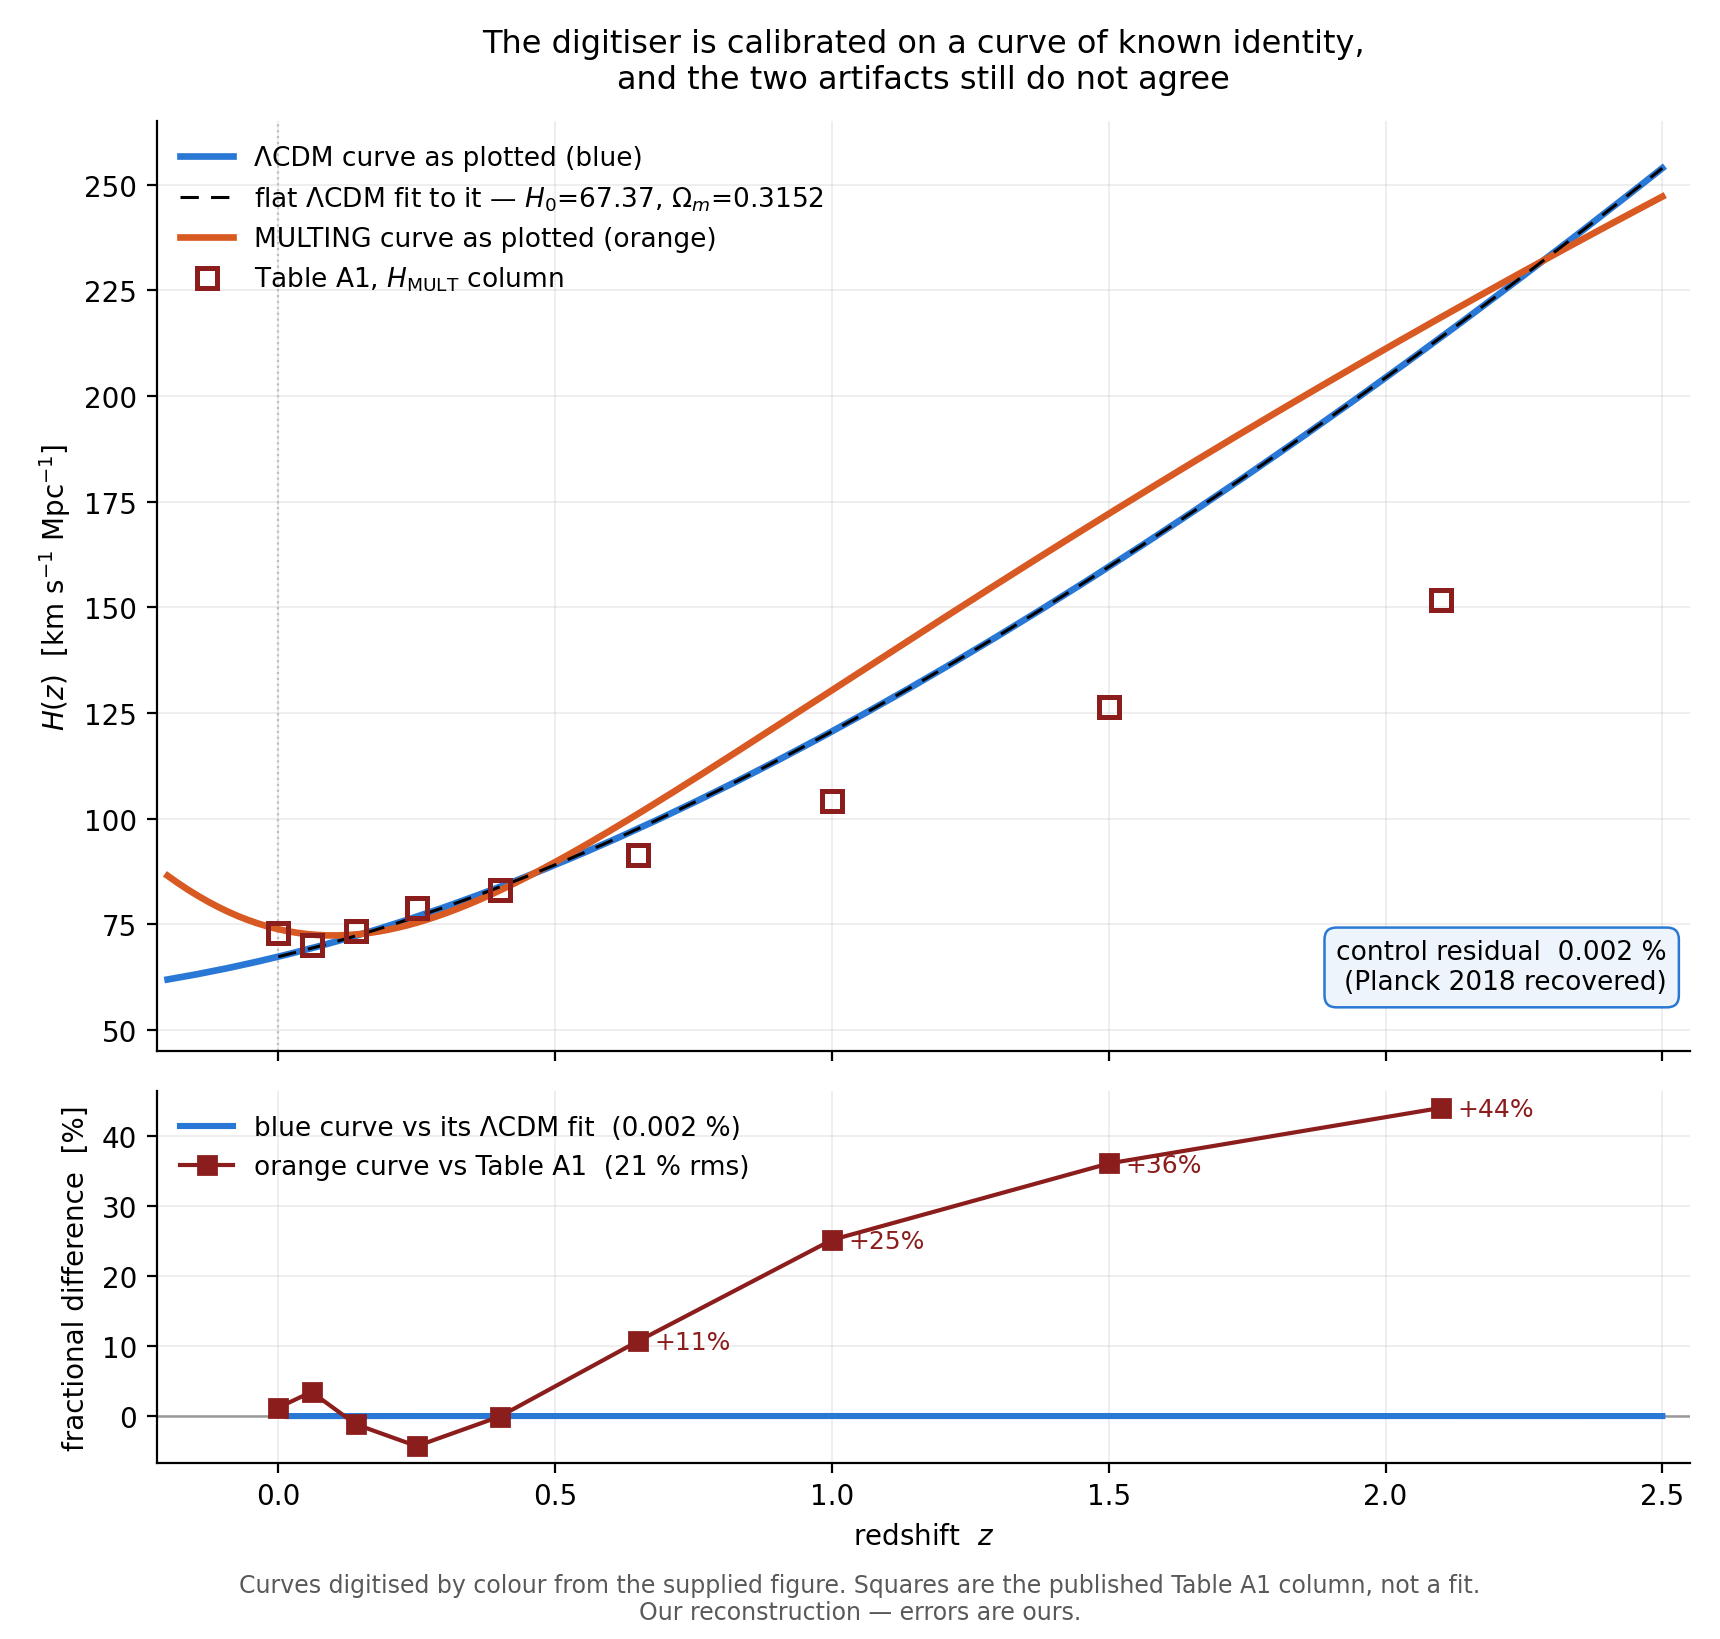
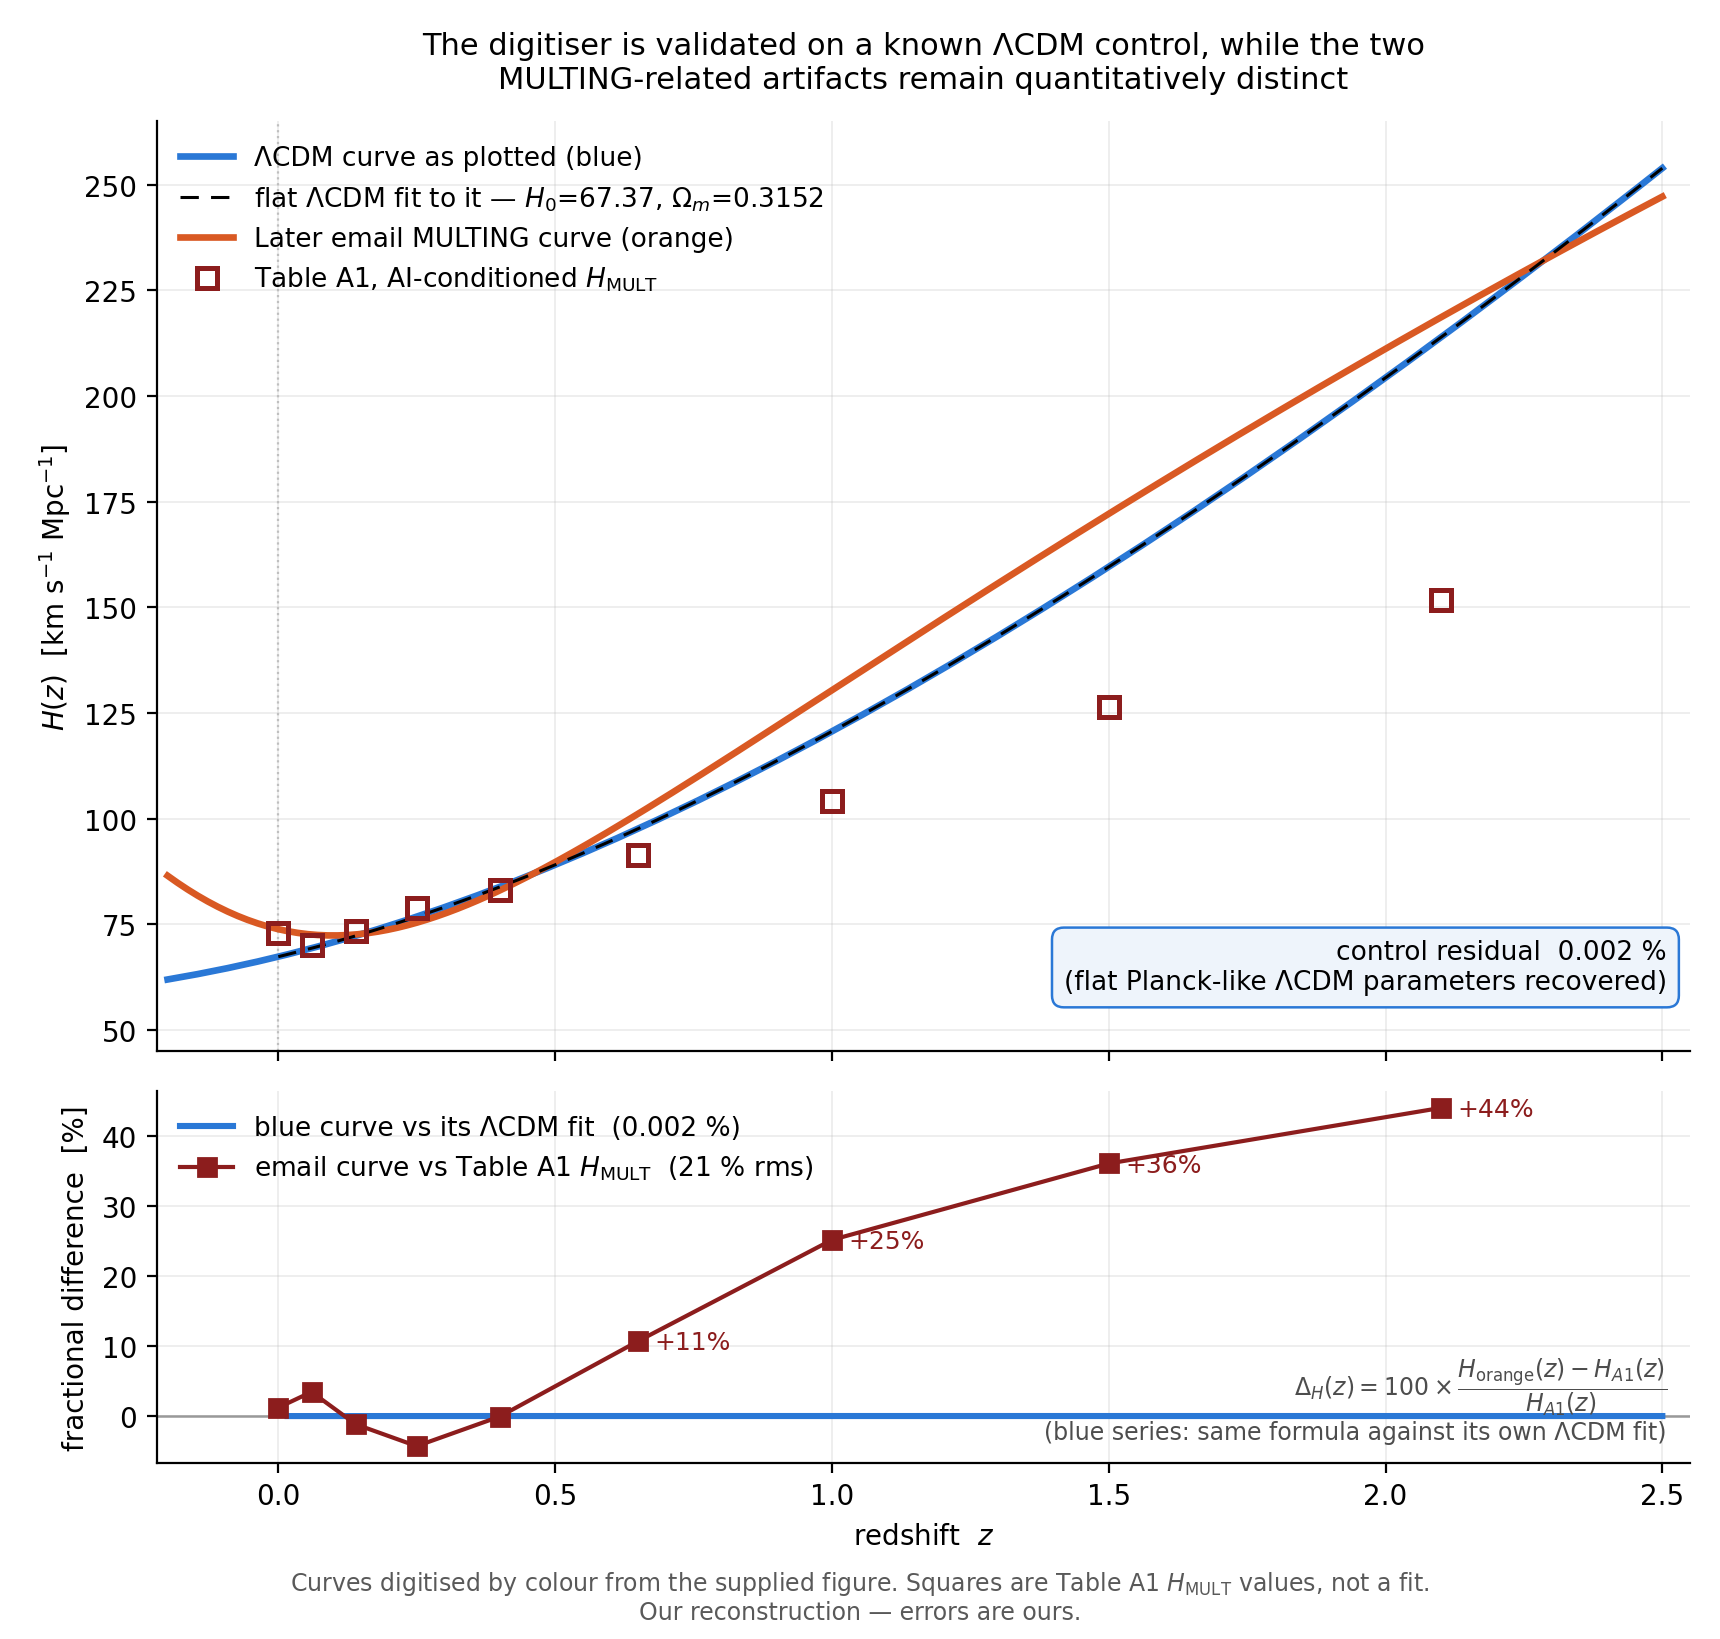
paper: apply 5 review edits to the attachment figure (8.8 -> target 9.6-9.8)
1. Title de-accusatorified: 'still do not agree' -> 'remain quantitatively
   distinct', framed around what was validated rather than what conflicts.
2. Delta_H(z) formula now defined explicitly on the panel -- denominator
   was previously implicit. Positioned bottom-right (z>2.1 is empty of
   data) after two collisions: top-left hit the legend, bottom-left hit
   the dipping curve at z=0.25.
3. Curve labels renamed by provenance: 'Later email MULTING curve' /
   'Table A1, AI-conditioned H_MULT' -- makes the C5A/C5C separation
   visible in the legend itself, not just in prose.
4. 'published Table A1 column' -> 'Table A1 H_MULT values' in the
   footer -- drops a word that could reopen the status debate the
   letter is trying to close.
5. 'Planck 2018 recovered' -> 'flat Planck-like LCDM parameters
   recovered' -- we recovered two fit parameters, not the full Planck
   analysis.

diff --git a/scripts/plot_audit_summary_for_tjb.py b/scripts/plot_audit_summary_for_tjb.py
@@ -116,7 +116,7 @@ def main() -> int:
         zorder=4,
         label=f"flat ΛCDM fit to it — $H_0$={p_ctl[0]:.2f}, $\\Omega_m$={p_ctl[1]:.4f}",
     )
-    ax.plot(zo, ho, color="#d95923", lw=2.4, label="MULTING curve as plotted (orange)", zorder=3)
+    ax.plot(zo, ho, color="#d95923", lw=2.4, label="Later email MULTING curve (orange)", zorder=3)
     ax.plot(
         a1.z,
         a1.H_MULT,
@@ -126,22 +126,22 @@ def main() -> int:
         mew=1.8,
         color="#8c1d1d",
         zorder=5,
-        label="Table A1, $H_{\\rm MULT}$ column",
+        label="Table A1, AI-conditioned $H_{\\rm MULT}$",
     )
     ax.axvline(0.0, color="0.75", lw=0.8, ls=":")
     ax.set_ylabel("$H(z)$  [km s$^{-1}$ Mpc$^{-1}$]")
     ax.set_ylim(45, 265)
     ax.legend(loc="upper left", frameon=False, fontsize=9.5)
     ax.set_title(
-        "The digitiser is calibrated on a curve of known identity,\n"
-        "and the two artifacts still do not agree",
-        fontsize=11.5,
+        "The digitiser is validated on a known ΛCDM control, while the two\n"
+        "MULTING-related artifacts remain quantitatively distinct",
+        fontsize=11.0,
         pad=12,
     )
     ax.text(
         0.985,
         0.06,
-        f"control residual  {ctl:.3f} %\n(Planck 2018 recovered)",
+        f"control residual  {ctl:.3f} %\n(flat Planck-like ΛCDM parameters recovered)",
         transform=ax.transAxes,
         ha="right",
         va="bottom",
@@ -164,7 +164,7 @@ def main() -> int:
         ms=6.5,
         color="#8c1d1d",
         lw=1.5,
-        label="orange curve vs Table A1  (21 % rms)",
+        label="email curve vs Table A1 $H_{\\rm MULT}$  (21 % rms)",
     )
     for z, d in zip(a1.z, dev, strict=True):
         if abs(d) > 8:
@@ -178,6 +178,17 @@ def main() -> int:
             )
     bx.set_xlabel("redshift  $z$")
     bx.set_ylabel("fractional difference  [%]")
+    bx.text(
+        0.985,
+        0.05,
+        r"$\Delta_H(z)=100\times\dfrac{H_{\rm orange}(z)-H_{A1}(z)}{H_{A1}(z)}$"
+        "\n(blue series: same formula against its own ΛCDM fit)",
+        transform=bx.transAxes,
+        ha="right",
+        va="bottom",
+        fontsize=8.5,
+        color="0.3",
+    )
     bx.set_xlim(-0.22, 2.55)
     bx.legend(loc="upper left", frameon=False, fontsize=9.5)
 
@@ -189,8 +200,8 @@ def main() -> int:
     fig.text(
         0.5,
         0.012,
-        "Curves digitised by colour from the supplied figure. Squares are the published Table A1 column, "
-        "not a fit.\nOur reconstruction — errors are ours.",
+        "Curves digitised by colour from the supplied figure. Squares are Table A1 "
+        "$H_{\\rm MULT}$ values, not a fit.\nOur reconstruction — errors are ours.",
         ha="center",
         fontsize=8.5,
         color="0.35",
